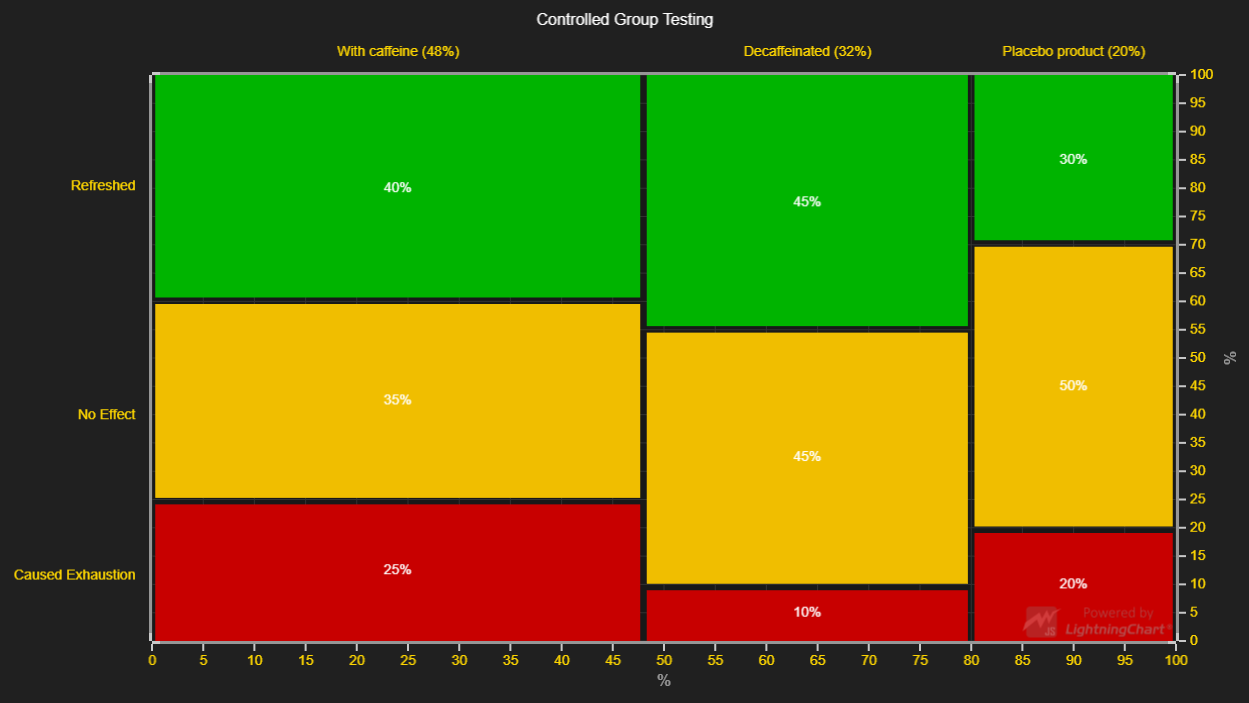
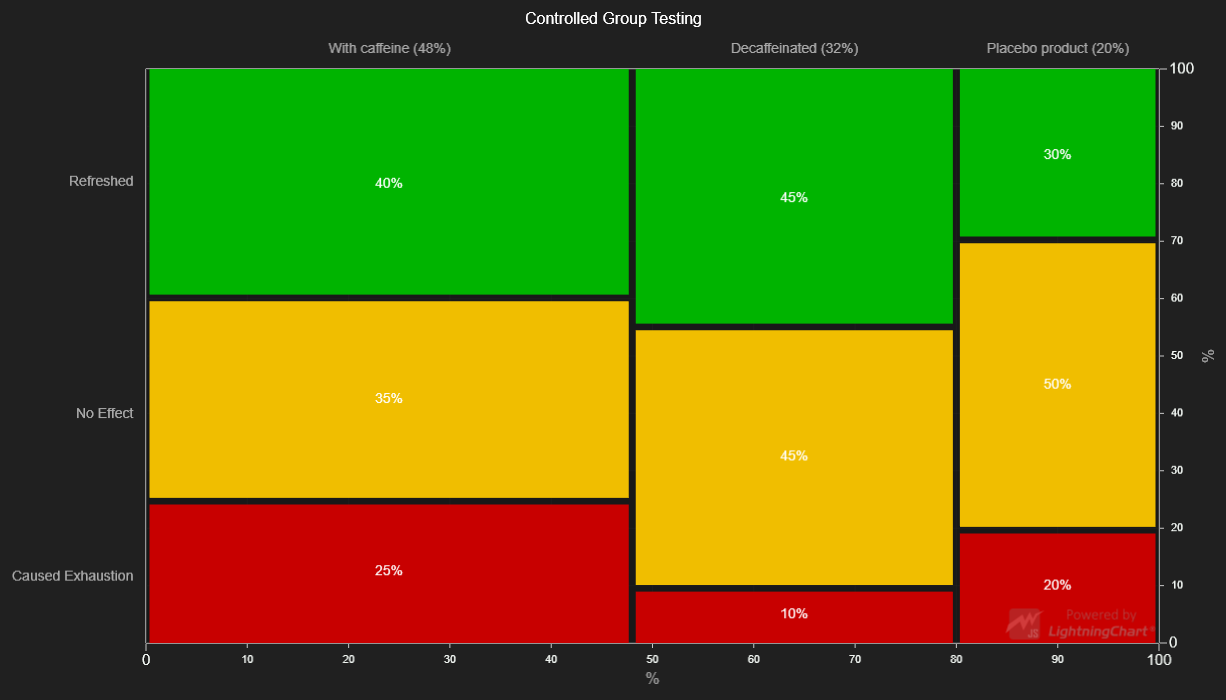
LCJS 2.0.0

diff --git a/src/index.js b/src/index.js
@@ -10,12 +10,13 @@ const {
     SolidFill,
     ColorRGBA,
     DefaultLibraryStyle,
-    emptyTick,
     emptyLine,
     emptyFill,
     UIElementBuilders,
     UIBackgrounds,
-    UIOrigins
+    UIOrigins,
+    AxisTickStrategies,
+    Themes
 } = lcjs
 
 const lc = lightningChart()
@@ -26,7 +27,9 @@ let mosaicChart
 {
     mosaicChart = () => {
         // Create a XY-Chart and add a RectSeries to it for rendering rectangles.
-        const chart = lc.ChartXY()
+        const chart = lc.ChartXY({
+            // theme: Themes.dark 
+        })
             .setTitle('Controlled Group Testing')
             .setMouseInteractions(false)
             // Disable default AutoCursor
@@ -42,7 +45,7 @@ let mosaicChart
             .setInterval(0, 100)
             .setMouseInteractions(false)
             // Hide default ticks of left Axis.
-            .setTickStyle(emptyTick)
+            .setTickStrategy(AxisTickStrategies.Empty)
         const rightAxis = chart.addAxisY(true)
             .setInterval(0, 100)
             .setScrollStrategy(undefined)
@@ -52,7 +55,7 @@ let mosaicChart
             .setInterval(0, 100)
             .setMouseInteractions(false)
             // Hide default ticks of top Axis.
-            .setTickStyle(emptyTick)
+            .setTickStrategy(AxisTickStrategies.Empty)
 
         // Create marker for the top of each column.
         const categoryMarkerBuilder = UIElementBuilders.PointableTextBox
@@ -65,6 +68,7 @@ let mosaicChart
                     .setFillStyle(emptyFill)
                     .setStrokeStyle(emptyLine)
                 )
+                .setTextFillStyle(new SolidFill({ color: ColorRGBA(170, 170, 170) }))
             )
         // Create text on top of each section.
         const subCategoryLabelBuilder = UIElementBuilders.TextBox

diff --git a/README.md b/README.md
@@ -51,16 +51,16 @@ The actual Mosaic Chart logic just serves to provide a starting point for users 
 
 ## API Links
 
-* XY cartesian chart: [ChartXY]
-* Rectangle series: [RectangleSeries]
-* Axis: [Axis]
-* Solid FillStyle: [SolidFill]
-* Empty FillStyle: [emptyFill]
-* Solid LineStyle: [SolidLine]
-* Empty LineStyle: [emptyLine]
-* Empty TickStyle: [emptyTick]
-* RGBA color factory: [ColorRGBA]
-* UI position origins: [UIOrigins]
+* [XY cartesian chart]
+* [Rectangle series]
+* [Axis]
+* [Solid FillStyle]
+* [Empty FillStyle]
+* [Solid LineStyle]
+* [Empty LineStyle]
+* [Empty TickStyle]
+* [RGBA color factory]
+* [UI position origins]
 
 
 ## Support
@@ -84,14 +84,14 @@ Direct developer email support can be purchased through a [Support Plan][4] or b
 © Arction Ltd 2009-2020. All rights reserved.
 
 
-[ChartXY]: https://www.arction.com/lightningchart-js-api-documentation/v1.3.0/classes/chartxy.html
-[RectangleSeries]: https://www.arction.com/lightningchart-js-api-documentation/v1.3.0/classes/rectangleseries.html
-[Axis]: https://www.arction.com/lightningchart-js-api-documentation/v1.3.0/classes/axis.html
-[SolidFill]: https://www.arction.com/lightningchart-js-api-documentation/v1.3.0/classes/solidfill.html
-[emptyFill]: https://www.arction.com/lightningchart-js-api-documentation/v1.3.0/globals.html#emptyfill
-[SolidLine]: https://www.arction.com/lightningchart-js-api-documentation/v1.3.0/classes/solidline.html
-[emptyLine]: https://www.arction.com/lightningchart-js-api-documentation/v1.3.0/globals.html#emptyline
-[emptyTick]: https://www.arction.com/lightningchart-js-api-documentation/v1.3.0/globals.html#emptytick
-[ColorRGBA]: https://www.arction.com/lightningchart-js-api-documentation/v1.3.0/globals.html#colorrgba
-[UIOrigins]: https://www.arction.com/lightningchart-js-api-documentation/v1.3.0/globals.html#uiorigins
+[XY cartesian chart]: https://www.arction.com/lightningchart-js-api-documentation/v2.0.0/classes/chartxy.html
+[Rectangle series]: https://www.arction.com/lightningchart-js-api-documentation/v2.0.0/classes/rectangleseries.html
+[Axis]: https://www.arction.com/lightningchart-js-api-documentation/v2.0.0/classes/axis.html
+[Solid FillStyle]: https://www.arction.com/lightningchart-js-api-documentation/v2.0.0/classes/solidfill.html
+[Empty FillStyle]: https://www.arction.com/lightningchart-js-api-documentation/v2.0.0/globals.html#emptyfill
+[Solid LineStyle]: https://www.arction.com/lightningchart-js-api-documentation/v2.0.0/classes/solidline.html
+[Empty LineStyle]: https://www.arction.com/lightningchart-js-api-documentation/v2.0.0/globals.html#emptyline
+[Empty TickStyle]: https://www.arction.com/lightningchart-js-api-documentation/v2.0.0/globals.html#emptytick
+[RGBA color factory]: https://www.arction.com/lightningchart-js-api-documentation/v2.0.0/globals.html#colorrgba
+[UI position origins]: https://www.arction.com/lightningchart-js-api-documentation/v2.0.0/globals.html#uiorigins
 
